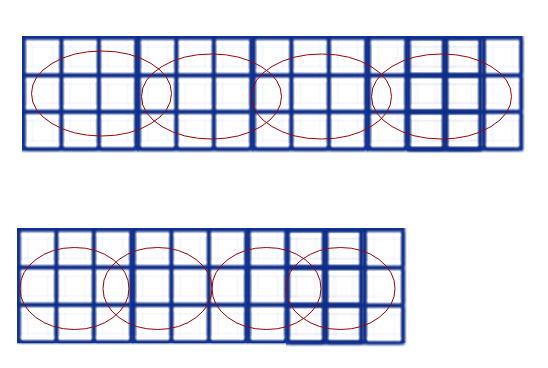
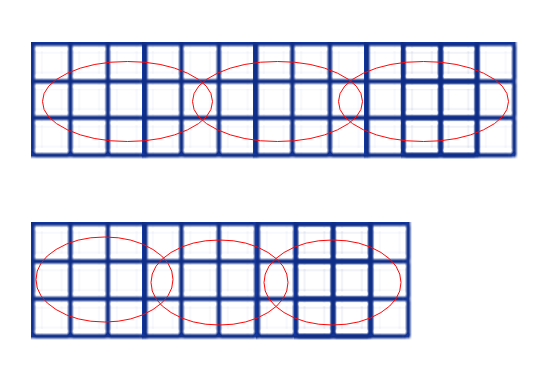
Site updated: 2015-05-07 23:03:28

diff --git a/Whatyouknowabout/spp-net-1/index.html b/Whatyouknowabout/spp-net-1/index.html
@@ -89,8 +89,8 @@
 <h2 id="简介">简介</h2><p>作者认为,传统CNN所需要的固定维度输入这一限制,是造成任意尺度的图片识别准确率低的原因.传统的CNN需要先对训练图片进行处理,使其维度相同.具体有两种做法,裁剪(cropping)和扭曲(warping).如下图.</p>
 <center><img src="/images/spp/spp1.png" width="500px"></center><br>缺点是:裁剪了的区域可能并不包含整个物体,而扭曲则会带入几何方面的失真.另外,即使是裁剪和扭曲,我们仍然是认为规定了一个输入尺度,而真实的物体尺度很多,这个固定维度的输入直接忽略掉了这一点.<br>为何非要给CNN限制一个固定维度的输入?作者说,CNN就分两块,卷积层和全连层(fully-connected layer),卷积层的输出是特征图(feature map),这个特征图反映出了原始输入图片中对filter(卷积核)激活的空间信息.卷积这一步是不需要固定大小的.是最后的全连层带来的这个限制.<br>作者针对这个问题,提出了在CNN的最后一个卷积层之后,加入一个SPP层,也就是空间金字塔池化,对之前卷积得到的特征进行”整合”(aggregation),然后得到一个固定长度的特征向量,再传到全连层去.如下图.<br><center><img src="/images/spp/spp2.png" width="500px"></center><br>SPP是词袋模型(Bag-of-Words)的扩展.为什么说是扩展?词袋模型没有特征的空间信息(就像它只能统计一个句子中每个单词的词频,而不能记录词的位置信息一样).在深层CNN里加入SPP会有3个优势: 1) 相比之前的滑动窗池化(sliding window pooling),SPP可以对不同维度输入得到固定长度输出. 2) SPP使用了多维的spatial bins(我的理解就是多个不同大小的窗),而滑动窗池化只用了一个窗. 3) 因为输入图片尺度可以是任意的,SPP就提取除了不同尺度的特征.作者说这3点可以提高深度网络的识别准确率.<br>##原理<br>###卷积和池化<br>一个CNN里,除了最后的全连层,前面的卷积层和池化层其实都可以看作是卷积运算(都是滑动窗).卷积操作得到的结果(feature map)基本上和原始的输入图片是一个比例(如果不懂CNN就去看UFLDL教程吧).<br>对之前卷积得到的特征进行”整合”(aggregation),然后得到一个固定长度的特征向量,再传到全连层去.如下图.<br><center><img src="/images/spp/spp3.png" width="800px"></center><br>上图可视化了卷积和池化提取的特征的意义,就是feature map的意义,feature map上的每一个点(或者某一个区域)对应这实际物体的某种形状,也就是某种模式了.<br><br>###SPP怎么做<br>若输入维度不同,卷积层会输出的不同大小的feature map.其实把BoW用在这些feature map上已经可以解决固定输出的问题了,但SPP使用local spatial bins来做池化,保留了空间信息,是一个提升.SPP的原理其实就一句话,SPP的spatial bins(也就是池化时候的窗口大小)是和输入图片的大小成比例的,所以spatial bins的数目也就固定下了,和输入大小无关.原理是下图.无论feature map的大小是多少,总是可以把一个feature map分成4x4,或者2x2,或者1x1,只是每一个小方块大小不一样.<br><center><img src="/images/spp/spp4.png" width="500px"></center><br>具体地,在一个CNN里,把最以后一次池化层去掉,换成一个SPP去做最大池化操作(max pooling).如果最后一次卷积得到了k个feature map,也就是有k个filter,SPP有M个bin,那经过SPP得到的是一个kM维的向量.我的理解是,比如上图中第一个feature map有16个bin,一共有256个feature map,没一个经过16个bin的max pooling得到16个数,那256个feature map就是16x256的向量了.SPP的bin大小可以选择多个,所以经过SPP还能产生4x256,1x256维的向量.<br>我们可以对不同比例,不同大小的图片进行处理,而且使用同一个CNN,只是对不同大小的图片,在最后的SPP里,bin的大小不同,但最后得到的特征确实相同维度.这样,我们把一张图片resize成不同尺度,放到同一个CNN里训练,就能得到不同尺度下的特征,就和SIFT类似了.<br><br>##训练<br>虽然SPP理论上可以直接用BP来训练参数,但现有的使用了GPU的CNN工具,比如caffe和cuda-caffe都只能以固定大小的图片作为输入.作者使用了caffe,但是用了一些技巧来实现SPP的训练.<br><br>###单一大小训练<br>如果一个图片大小固定,比如224x224,那么我们就能计算出它的池化窗口(bin)的大小.比如经过第五个卷积层conv5之后得到的feature map是a x a(13x13),如果金字塔大小n x n,那么窗口大小就是ceil(a / n), 步长是floor(a / n).我们可以用l个不同大小的窗口,比如3x3, 2x2, 1x1.下图是这样3个窗口和最后的全连层的的配置文件.<br><center><img src="/images/spp/spp5.png" width="500px"></center>
 
-<h3 id="多个大小训练">多个大小训练</h3><p>我们再考虑一种输入大小(180x180),两种大小也算是”多个大小训练”啊.这个180x180的直接取224x224图片的按尺度缩放图片,这两张图除了解析度不同别的都相同.180x180的图片经过地五层卷积后的feature map是10x10,这时我们依然用刚才的公式,窗口大小就是ceil(a / n), 步长是floor(a / n),这样的话后得到的特征长度与之前的224x224的特征长度相同.举个例子,如果n=4,那么对于第一种大小,窗口长为4,步长3,第二中大小,窗口3,步长2,如下图.</p>
-<p><center><img src="/images/spp/spp6.png" width="500px"></center><br>红色区域代表窗口,经过最大池化后,两张图得到的特征向量长度均为4.所以180的网络和224的网络参数完全一样,于是SPP训练阶段,对于这两种网络只要共享参数即可.<br>实际训练时,为了减少不停转换网络带来的开销,需要使用全部数据一次训练一个网络,然后再换成第二个,作为一次迭代.所以作者根本没有实现训练不同大小输入的CNN的BP算法,只是针对各种各样大小不同的输入,定义出不同的网络,但这些网络实际上参数都相同,于是就可以用现有工具来训练.<br>这个是训练阶段,需要不停转化网络,当训练好模型用于测试时,只要输入图片就行了.</p>
+<h3 id="多个大小训练">多个大小训练</h3><p>我们再考虑一种输入大小(180x180),两种大小也算是”多个大小训练”啊.这个180x180的直接取224x224图片的按尺度缩放图片,这两张图除了解析度不同别的都相同.180x180的图片经过地五层卷积后的feature map是10x10,这时我们依然用刚才的公式,窗口大小就是ceil(a / n), 步长是floor(a / n),这样的话后得到的特征长度与之前的224x224的特征长度相同.举个例子,如果n=3,那么对于第一种大小,窗口长为5,步长4,第二中大小,窗口4,步长3,如下图.</p>
+<p><center><img src="/images/spp/spp6.png" width="500px"></center><br>红色区域代表窗口,经过最大池化后,两张图得到的特征向量长度均为3.所以180的网络和224的网络参数完全一样,于是SPP训练阶段,对于这两种网络只要共享参数即可.<br>实际训练时,为了减少不停转换网络带来的开销,需要使用全部数据一次训练一个网络,然后再换成第二个,作为一次迭代.所以作者根本没有实现训练不同大小输入的CNN的BP算法,只是针对各种各样大小不同的输入,定义出不同的网络,但这些网络实际上参数都相同,于是就可以用现有工具来训练.<br>这个是训练阶段,需要不停转化网络,当训练好模型用于测试时,只要输入图片就行了.</p>
 
       
     </div>
